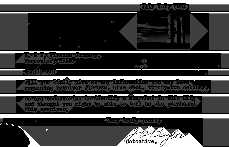
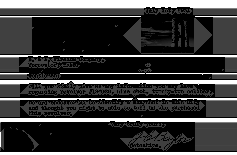
Add padding to input image
Slightly pad the input image to help with marks that are on the edge of
the image.
TODO: make sure the padding is the right color (now just assumes white)
TODO: consider making the padding variable with image size

diff --git a/src/libSeamCarve.c b/src/libSeamCarve.c
@@ -926,50 +926,72 @@ static int findSeamsHorizontal(int *imageSeams, int imageWidth, int imageHeight,
 static int *seamCarve(int *imageVector, int imageWidth, int forceDirection, int imageHeight)
 {
 	double imageScale = 0.25;
+	int imagePadding = 4;
+	int newImageWidth = getScaledSize(imageWidth, imageScale) + imagePadding + imagePadding;
+	int newImageHeight = getScaledSize(imageHeight, imageScale) + imagePadding + imagePadding;
 	int smallImageWidth = getScaledSize(imageWidth, imageScale);
 	int smallImageHeight = getScaledSize(imageHeight, imageScale);
 	int *smallImage = (int*)xmalloc((unsigned long)smallImageHeight * (unsigned long)smallImageWidth * sizeof(int));
 	resize(imageVector, imageWidth, imageHeight, smallImage, smallImageWidth, smallImageHeight);
 	
-	int *newImage = (int*)xmalloc((unsigned long)smallImageWidth * (unsigned long)smallImageHeight * sizeof(int));
-	int *newImage2 = (int*)xmalloc((unsigned long)smallImageWidth * (unsigned long)smallImageHeight * sizeof(int));
-	int *newImageEnergy = (int*)xmalloc((unsigned long)smallImageWidth * (unsigned long)smallImageHeight * sizeof(int));
+	int *newImage = (int*)xmalloc((unsigned long)newImageWidth * (unsigned long)newImageHeight * sizeof(int));
+	int *newImage2 = (int*)xmalloc((unsigned long)newImageWidth * (unsigned long)newImageHeight * sizeof(int));
+	int *newImageEnergy = (int*)xmalloc((unsigned long)newImageWidth * (unsigned long)newImageHeight * sizeof(int));
 	
-	int *newImageSeams = (int*)xmalloc((unsigned long)smallImageWidth * (unsigned long)smallImageHeight * sizeof(int));
-	int *newImageSeams2 = (int*)xmalloc((unsigned long)smallImageWidth * (unsigned long)smallImageHeight * sizeof(int));
+	int *newImageSeams = (int*)xmalloc((unsigned long)newImageWidth * (unsigned long)newImageHeight * sizeof(int));
+	int *newImageSeams2 = (int*)xmalloc((unsigned long)newImageWidth * (unsigned long)newImageHeight * sizeof(int));
 	
 	int currentPixel = 0;
+	int uncroppedPixel = 0;
 
+	int jj = 0;
+	int ii = 0;
 	// create an image of the original image's energies
-	for (int j = 0; j < smallImageHeight; ++j) {
-		for (int i = 0; i < smallImageWidth; ++i) {
-			currentPixel = (j * smallImageWidth) + i;
-			// mutable copy of the original image, to return the original image with seams shown
-			newImage[currentPixel] = smallImage[currentPixel];
-			newImage2[currentPixel] = smallImage[currentPixel];
-			// original energies of the original image, to return the energies with seams shown
-			newImageEnergy[currentPixel] = getPixelEnergySimple(smallImage, smallImageWidth, smallImageHeight, currentPixel, 1);
-			// top down energy seam data of the original image
-			newImageSeams[currentPixel] = newImageEnergy[currentPixel];
-			newImageSeams2[currentPixel] = newImageEnergy[currentPixel];
+	for (int j = 0; j < newImageHeight; ++j) {
+		for (int i = 0; i < newImageWidth; ++i) {
+			currentPixel = (j * newImageWidth) + i;
+			if ((j >= imagePadding) && (j < (imagePadding + smallImageHeight)) && (i >= imagePadding) && (i < (imagePadding + smallImageWidth))) {
+				uncroppedPixel = (jj * newImageWidth) + ii;
+				++ii;
+				if (ii >= newImageWidth) {
+					ii = 0;
+					++jj;
+				} 
+
+				
+				// mutable copy of the original image, to return the original image with seams shown
+				newImage[currentPixel] = smallImage[uncroppedPixel];
+				newImage2[currentPixel] = smallImage[uncroppedPixel];
+				// original energies of the original image, to return the energies with seams shown
+				newImageEnergy[currentPixel] = getPixelEnergySimple(newImage, newImageWidth, newImageHeight, currentPixel, 1);
+				// top down energy seam data of the original image
+				newImageSeams[currentPixel] = newImageEnergy[currentPixel];
+				newImageSeams2[currentPixel] = newImageEnergy[currentPixel];
+			} else {
+				newImage[currentPixel] = 255;
+				newImage2[currentPixel] = 255;
+				newImageEnergy[currentPixel] = 0;
+				newImageSeams[currentPixel] = 0;
+				newImageSeams2[currentPixel] = 0;
+			}
 		}
 	}
 
 	// DEBUG: To test each direction
 	if (forceDirection == 1) {
-		fillSeamMatrixHorizontal(newImageSeams2, smallImageWidth, smallImageHeight);
-		int horizontalSeamCost = findSeamsHorizontal(newImageSeams2, smallImageWidth, smallImageHeight, newImage2);
+		fillSeamMatrixHorizontal(newImageSeams2, newImageWidth, newImageHeight);
+		int horizontalSeamCost = findSeamsHorizontal(newImageSeams2, newImageWidth, newImageHeight, newImage2);
 		return newImage2;
 	} else if (forceDirection == 2) {
-		fillSeamMatrixVertical(newImageSeams, smallImageWidth, smallImageHeight);
-		int verticalSeamCost = findSeamsVertical(newImageSeams, smallImageWidth, smallImageHeight, newImage);
+		fillSeamMatrixVertical(newImageSeams, newImageWidth, newImageHeight);
+		int verticalSeamCost = findSeamsVertical(newImageSeams, newImageWidth, newImageHeight, newImage);
 		return newImage;
 	} else {
-		fillSeamMatrixVertical(newImageSeams, smallImageWidth, smallImageHeight);
-		fillSeamMatrixHorizontal(newImageSeams2, smallImageWidth, smallImageHeight);
+		fillSeamMatrixVertical(newImageSeams, newImageWidth, newImageHeight);
+		fillSeamMatrixHorizontal(newImageSeams2, newImageWidth, newImageHeight);
 
-		int verticalSeamCost = findSeamsVertical(newImageSeams, smallImageWidth, smallImageHeight, newImage);
-		int horizontalSeamCost = findSeamsHorizontal(newImageSeams2, smallImageWidth, smallImageHeight, newImage2);
+		int verticalSeamCost = findSeamsVertical(newImageSeams, newImageWidth, newImageHeight, newImage);
+		int horizontalSeamCost = findSeamsHorizontal(newImageSeams2, newImageWidth, newImageHeight, newImage2);
 		printf("Sum traversal cost of all seams: vertical = %d, horizontal = %d\n", verticalSeamCost, horizontalSeamCost);
 		
 		free(smallImage);
@@ -978,12 +1000,8 @@ static int *seamCarve(int *imageVector, int imageWidth, int forceDirection, int 
 		free(newImageSeams2);
 
 		if (horizontalSeamCost < verticalSeamCost) {
-			// return smallImage;
-			// return newImageSeams2;
 			return newImage2;
 		} else {
-			// return smallImage;
-			// return newImageSeams;
 			return newImage;
 		}
 	}

diff --git a/src/sc.c b/src/sc.c
@@ -28,8 +28,9 @@ static void carve(char *sourceFile, char *resultFile, int forceDirection, int ve
 	newImageVector = seamCarve(imageVector, imageWidth, forceDirection, imageHeight);
 
 	double imageScale = 0.25;
-	int newWidth = getScaledSize(imageWidth, imageScale);
-	int newHeight = getScaledSize(imageHeight, imageScale);
+	int imagePadding = 4;
+	int newWidth = getScaledSize(imageWidth, imageScale) + imagePadding + imagePadding;
+	int newHeight = getScaledSize(imageHeight, imageScale) + imagePadding + imagePadding;
 	write_png_file(newImageVector, newWidth, newHeight, resultFile);
 	//write_png_file(newImageVector, imageWidth, imageHeight, resultFile);
 }
